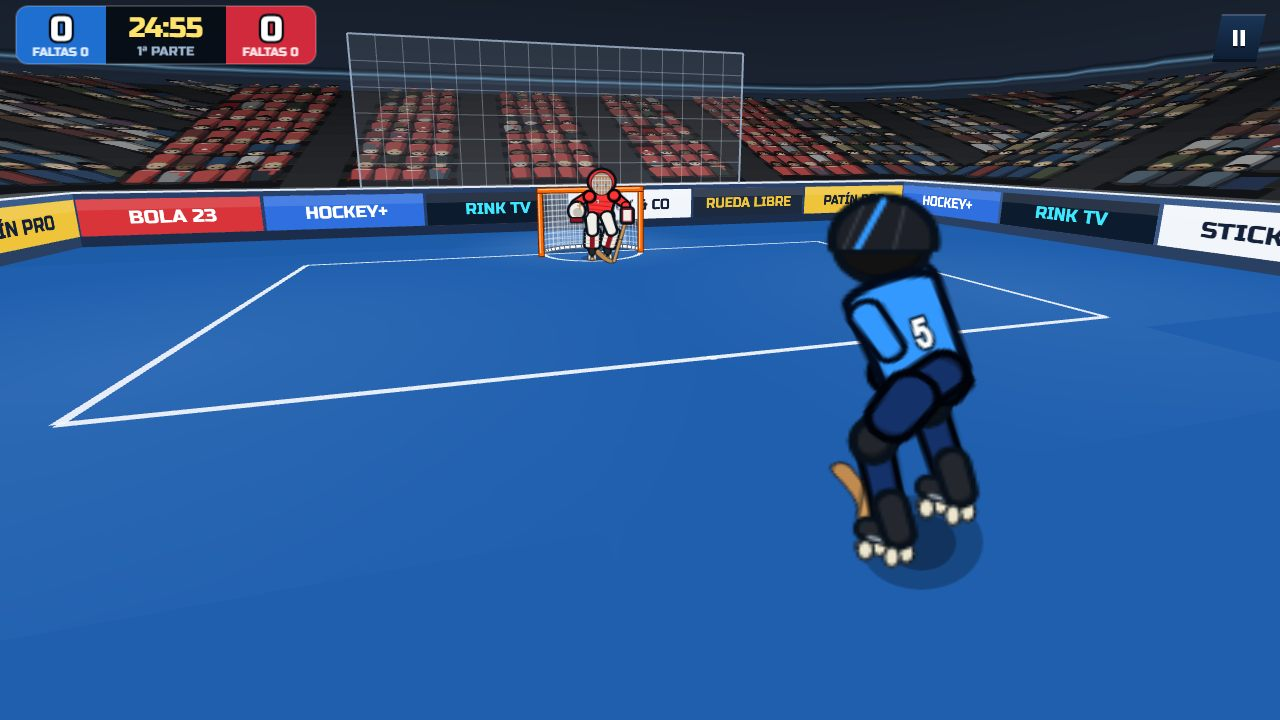
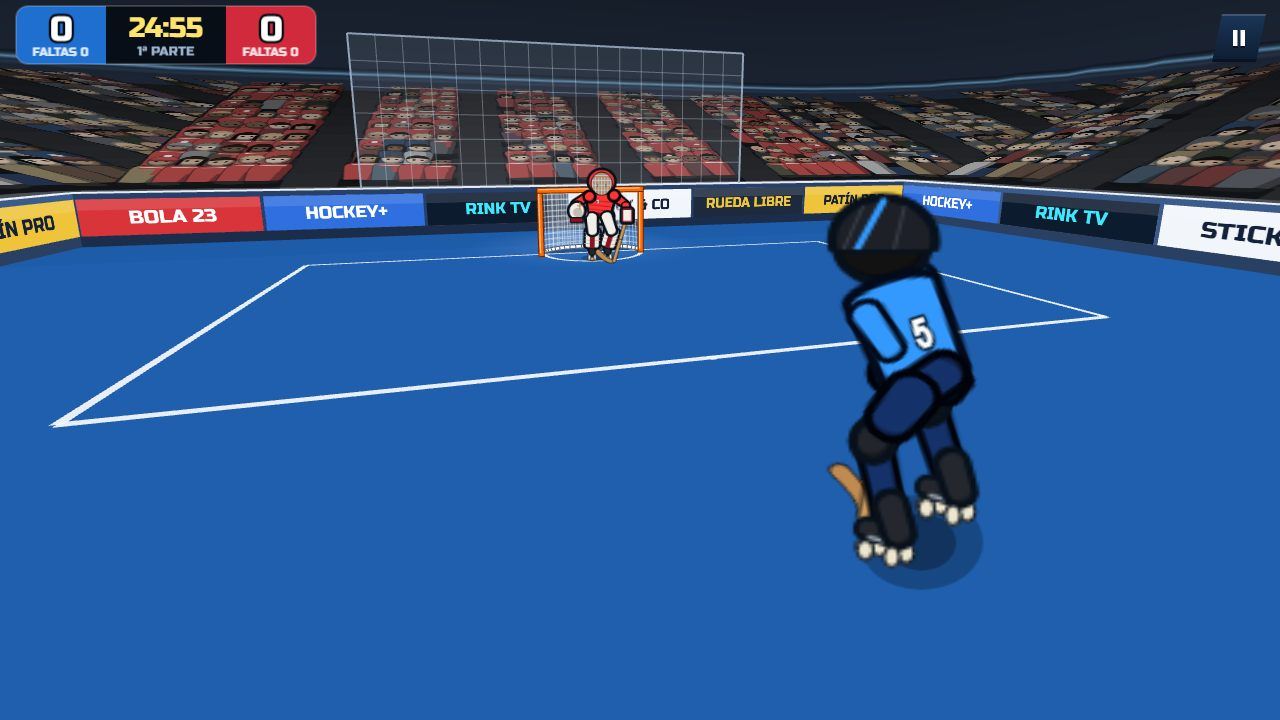
lanz(L-05): ronda 2, público denso con torsos y camisetas a escala de fila, sin pozos recortados en el suelo

Changed region(s): [[0.0, 0.0917, 1.0, 0.275], [0.625, 0.6417, 0.6875, 0.7028]]

diff --git a/src/game/render/setpiece/backdrop.ts b/src/game/render/setpiece/backdrop.ts
@@ -424,10 +424,12 @@ function poolCells(centers: Array<[number, number]>, r: number, halfW: number, b
   const cells = new Cells()
   const N = SETPIECE_STAGE.pool.cells
   for (const [cx, cy] of centers) {
+    // El pozo se encoge hasta caber entero en la pista: se funde a 0 antes del borde, sin recortes
+    const rr = Math.max(0.5, Math.min(r, halfW - Math.abs(cx), cy - backY, farY - cy))
     const at = (i: number, j: number) => {
-      const x = Math.max(-halfW, Math.min(halfW, cx + r * ((2 * i) / N - 1)))
-      const y = Math.max(backY, Math.min(farY, cy + r * ((2 * j) / N - 1)))
-      return [x, y, 0, (x - cx) / (2 * r) + 0.5, (y - cy) / (2 * r) + 0.5, 0, 0]
+      const x = cx + rr * ((2 * i) / N - 1)
+      const y = cy + rr * ((2 * j) / N - 1)
+      return [x, y, 0, i / N, j / N, 0, 0]
     }
     for (let i = 0; i < N; i++) {
       for (let j = 0; j < N; j++) cells.add([at(i, j), at(i, j + 1), at(i + 1, j), at(i + 1, j + 1)])
@@ -465,15 +467,11 @@ export class StageBackdrop {
     ensureHallTexture(scene)
     this.fixed.push(new TexGrid(scene, HALL_KEY, hallCells(ring.all), BACK_DEPTH - 2, 0))
     ensurePoolTexture(scene)
-    const len = farY - backY
-    const centers: Array<[number, number]> = []
-    for (const fx of LIGHT.poolsX) for (const fy of LIGHT.poolsY) centers.push([(fy - 0.5) * halfW * 2, backY + fx * len])
+    // Solo el pozo de la portería atacada: los del centro quedaban cortados por el plano cercano de la cámara
     const P = SETPIECE_STAGE.pool
-    const floor = new TexGrid(scene, POOL_KEY, poolCells(centers, LIGHT.poolRadius / PX_PER_M, halfW, backY, farY), BACK_DEPTH + 0.2, 0)
-    floor.mesh.setAlpha(Math.min(1, LIGHT.poolAlpha * P.k))
-    const goal = new TexGrid(scene, POOL_KEY, poolCells([[0, backY + LIGHT.goalPoolOffsetM], [0, farY - LIGHT.goalPoolOffsetM]], LIGHT.goalPoolRadius / PX_PER_M, halfW, backY, farY), BACK_DEPTH + 0.3, 0)
+    const goal = new TexGrid(scene, POOL_KEY, poolCells([[0, backY + LIGHT.goalPoolOffsetM]], LIGHT.goalPoolRadius / PX_PER_M, halfW, backY, farY), BACK_DEPTH + 0.3, 0)
     goal.mesh.setAlpha(Math.min(1, LIGHT.goalPoolAlpha * P.k))
-    this.fixed.push(floor, goal)
+    this.fixed.push(goal)
 
     this.stands.push({ kind: 'side', strips: ring.side, grid: null })
     this.stands.push({ kind: 'blue', strips: ring.back, grid: null }, { kind: 'red', strips: ring.back, grid: null })

diff --git a/src/game/render/artSpec.ts b/src/game/render/artSpec.ts
@@ -1010,8 +1010,8 @@ export const SETPIECE_STAGE = {
     /** Luz de la estructura (huella, contrahuella, pasillos) respecto a la del partido: más oscura, la masa la hace el público. */
     structK: 0.62,
     /** Escala de las figuras (se solapan filas como en el partido) y fracción de asientos vacíos respecto a `CROWD`. */
-    fanK: 1.14,
-    emptyK: 0.4,
+    fanK: 1.6,
+    emptyK: 1,
     /** Horneado: tiempo máximo por trozo (ms) antes de ceder el hilo. */
     sliceMs: 8,
   },
